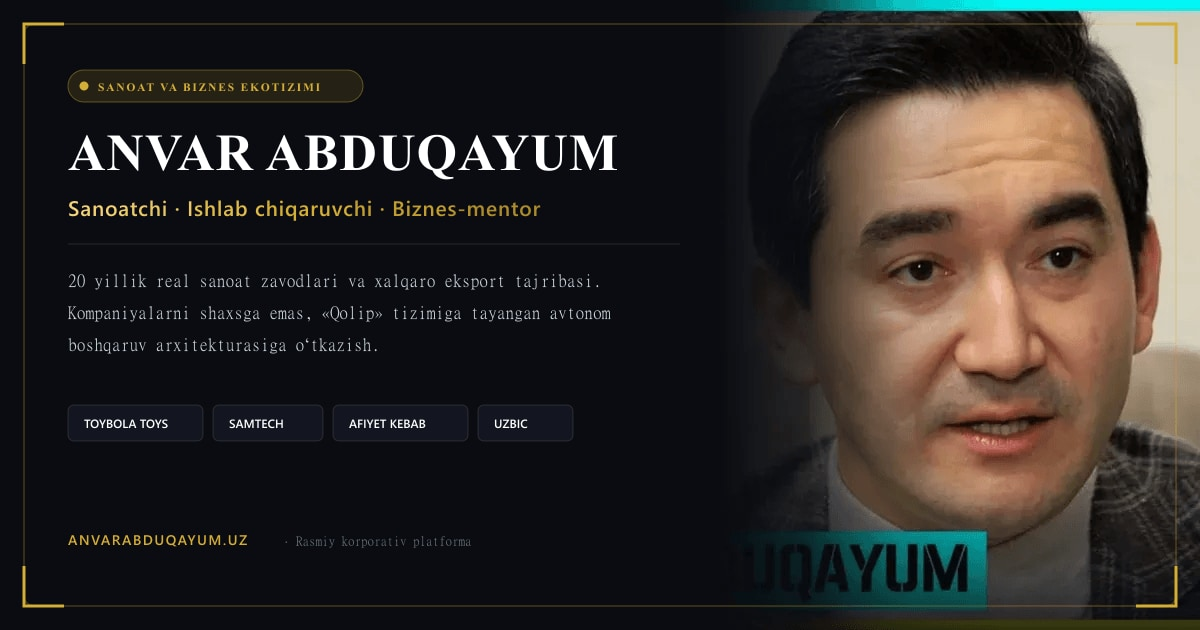
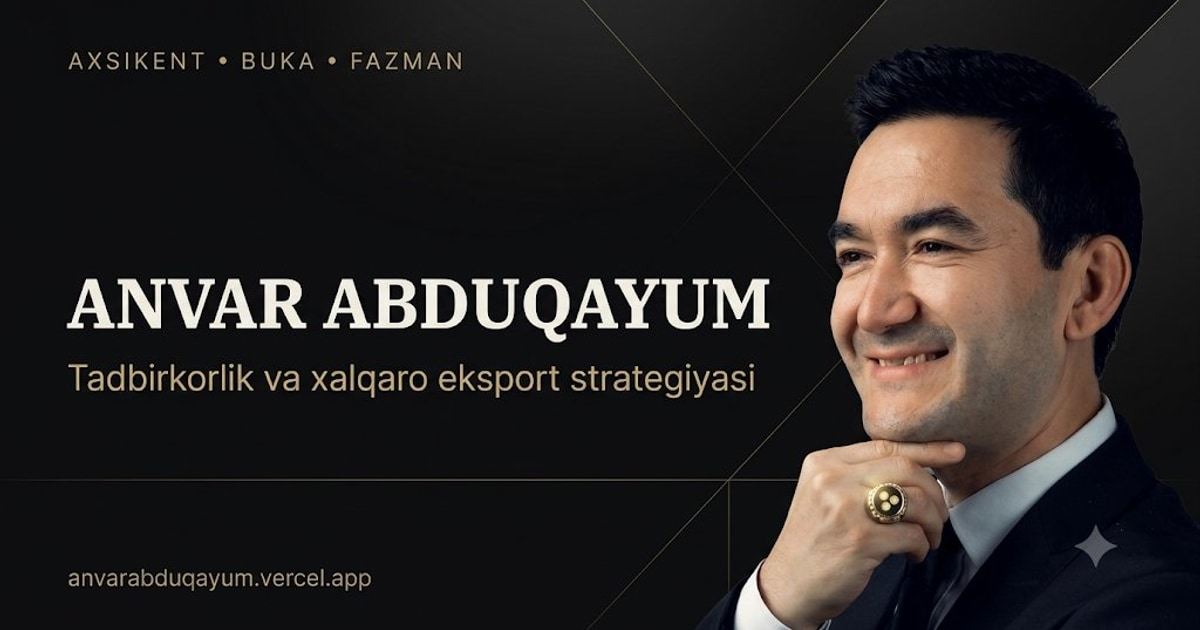
feat: apply official custom og image

diff --git a/scripts/install_user_og.js b/scripts/install_user_og.js
@@ -1,0 +1,49 @@
+const sharp = require('sharp');
+const fs = require('fs');
+const path = require('path');
+
+async function installUploadedOg() {
+  const src = 'C:/Users/VICTUS/.gemini/antigravity/brain/86be693b-b8e1-4185-885c-0e8b57e8aa2b/.user_uploaded/media_1795244648762_77f4e43a.jpg';
+
+  // Standart Open Graph o'lchami: 1200 x 630
+  const jpgBuffer = await sharp(src)
+    .resize(1200, 630, { fit: 'cover', position: 'center' })
+    .jpeg({ quality: 92, mozjpeg: true })
+    .toBuffer();
+
+  const pngBuffer = await sharp(src)
+    .resize(1200, 630, { fit: 'cover', position: 'center' })
+    .png({ quality: 95 })
+    .toBuffer();
+
+  const jpgTargets = [
+    'public/images/brand/og-image.jpg',
+    'public/og-image.jpg',
+    'src/app/opengraph-image.jpg',
+    'src/app/[locale]/opengraph-image.jpg',
+  ];
+
+  const pngTargets = [
+    'public/images/brand/og-image.png',
+    'public/og-image.png',
+    'public/images/og-image.png',
+    'src/app/opengraph-image.png',
+    'src/app/[locale]/opengraph-image.png',
+  ];
+
+  for (const t of jpgTargets) {
+    fs.mkdirSync(path.dirname(t), { recursive: true });
+    fs.writeFileSync(t, jpgBuffer);
+    console.log(`Saved JPG: ${t} (${(jpgBuffer.length / 1024).toFixed(1)} KB)`);
+  }
+
+  for (const t of pngTargets) {
+    fs.mkdirSync(path.dirname(t), { recursive: true });
+    fs.writeFileSync(t, pngBuffer);
+    console.log(`Saved PNG: ${t} (${(pngBuffer.length / 1024).toFixed(1)} KB)`);
+  }
+
+  console.log('User provided official OG image installed successfully!');
+}
+
+installUploadedOg().catch(console.error);
